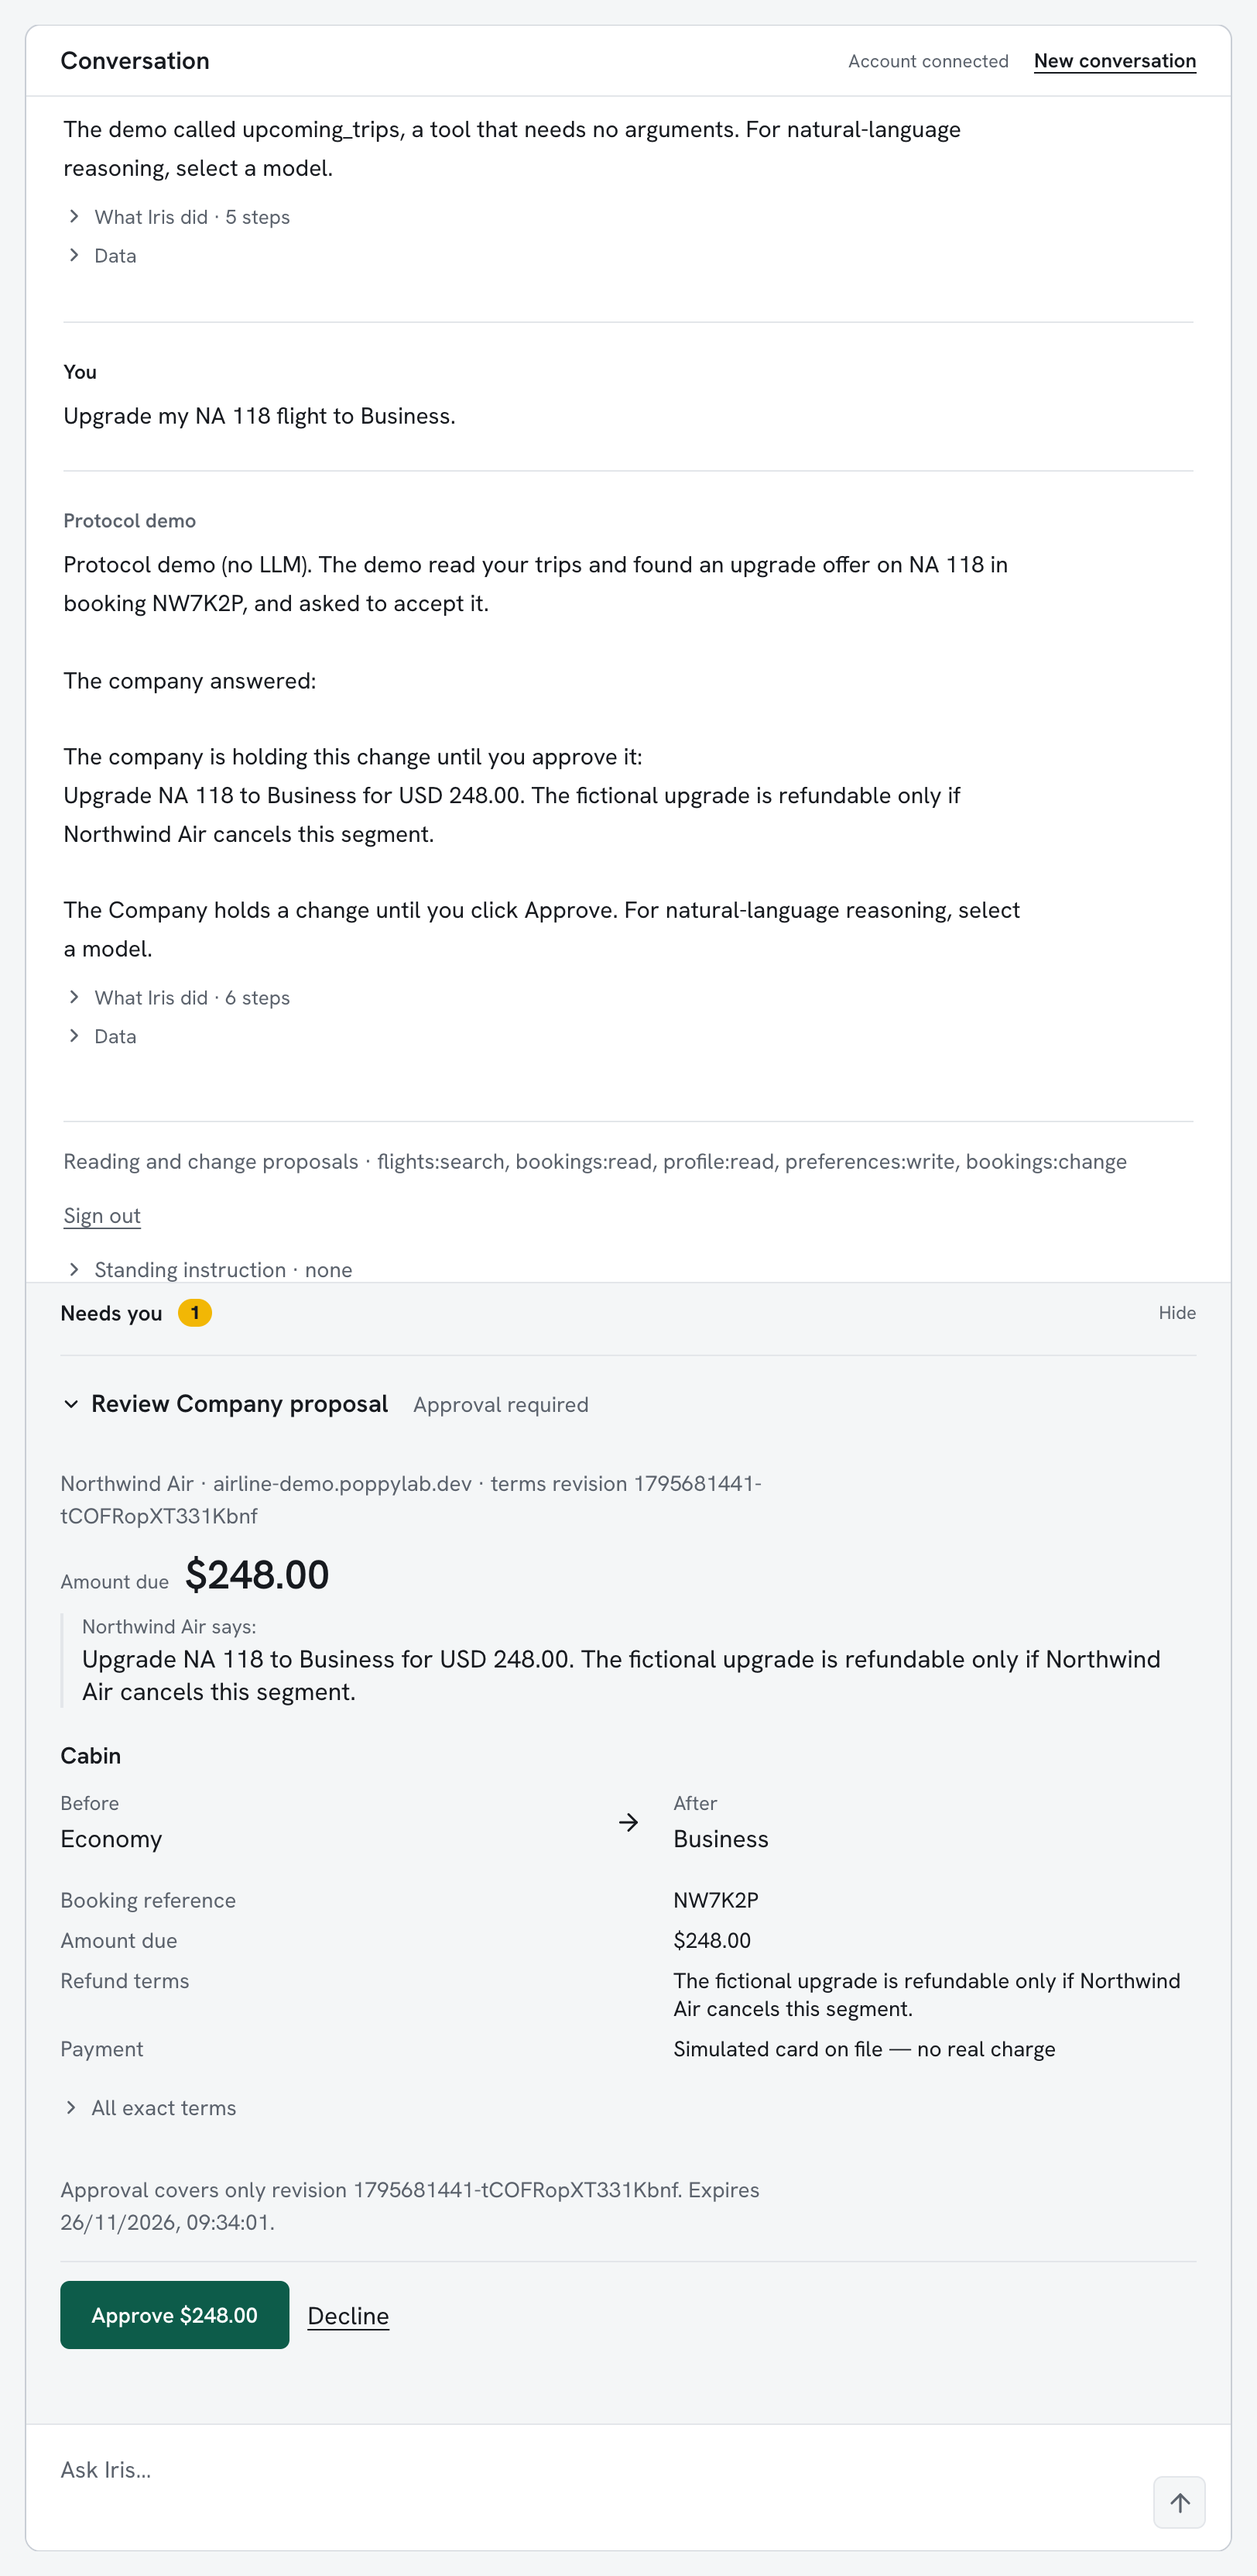
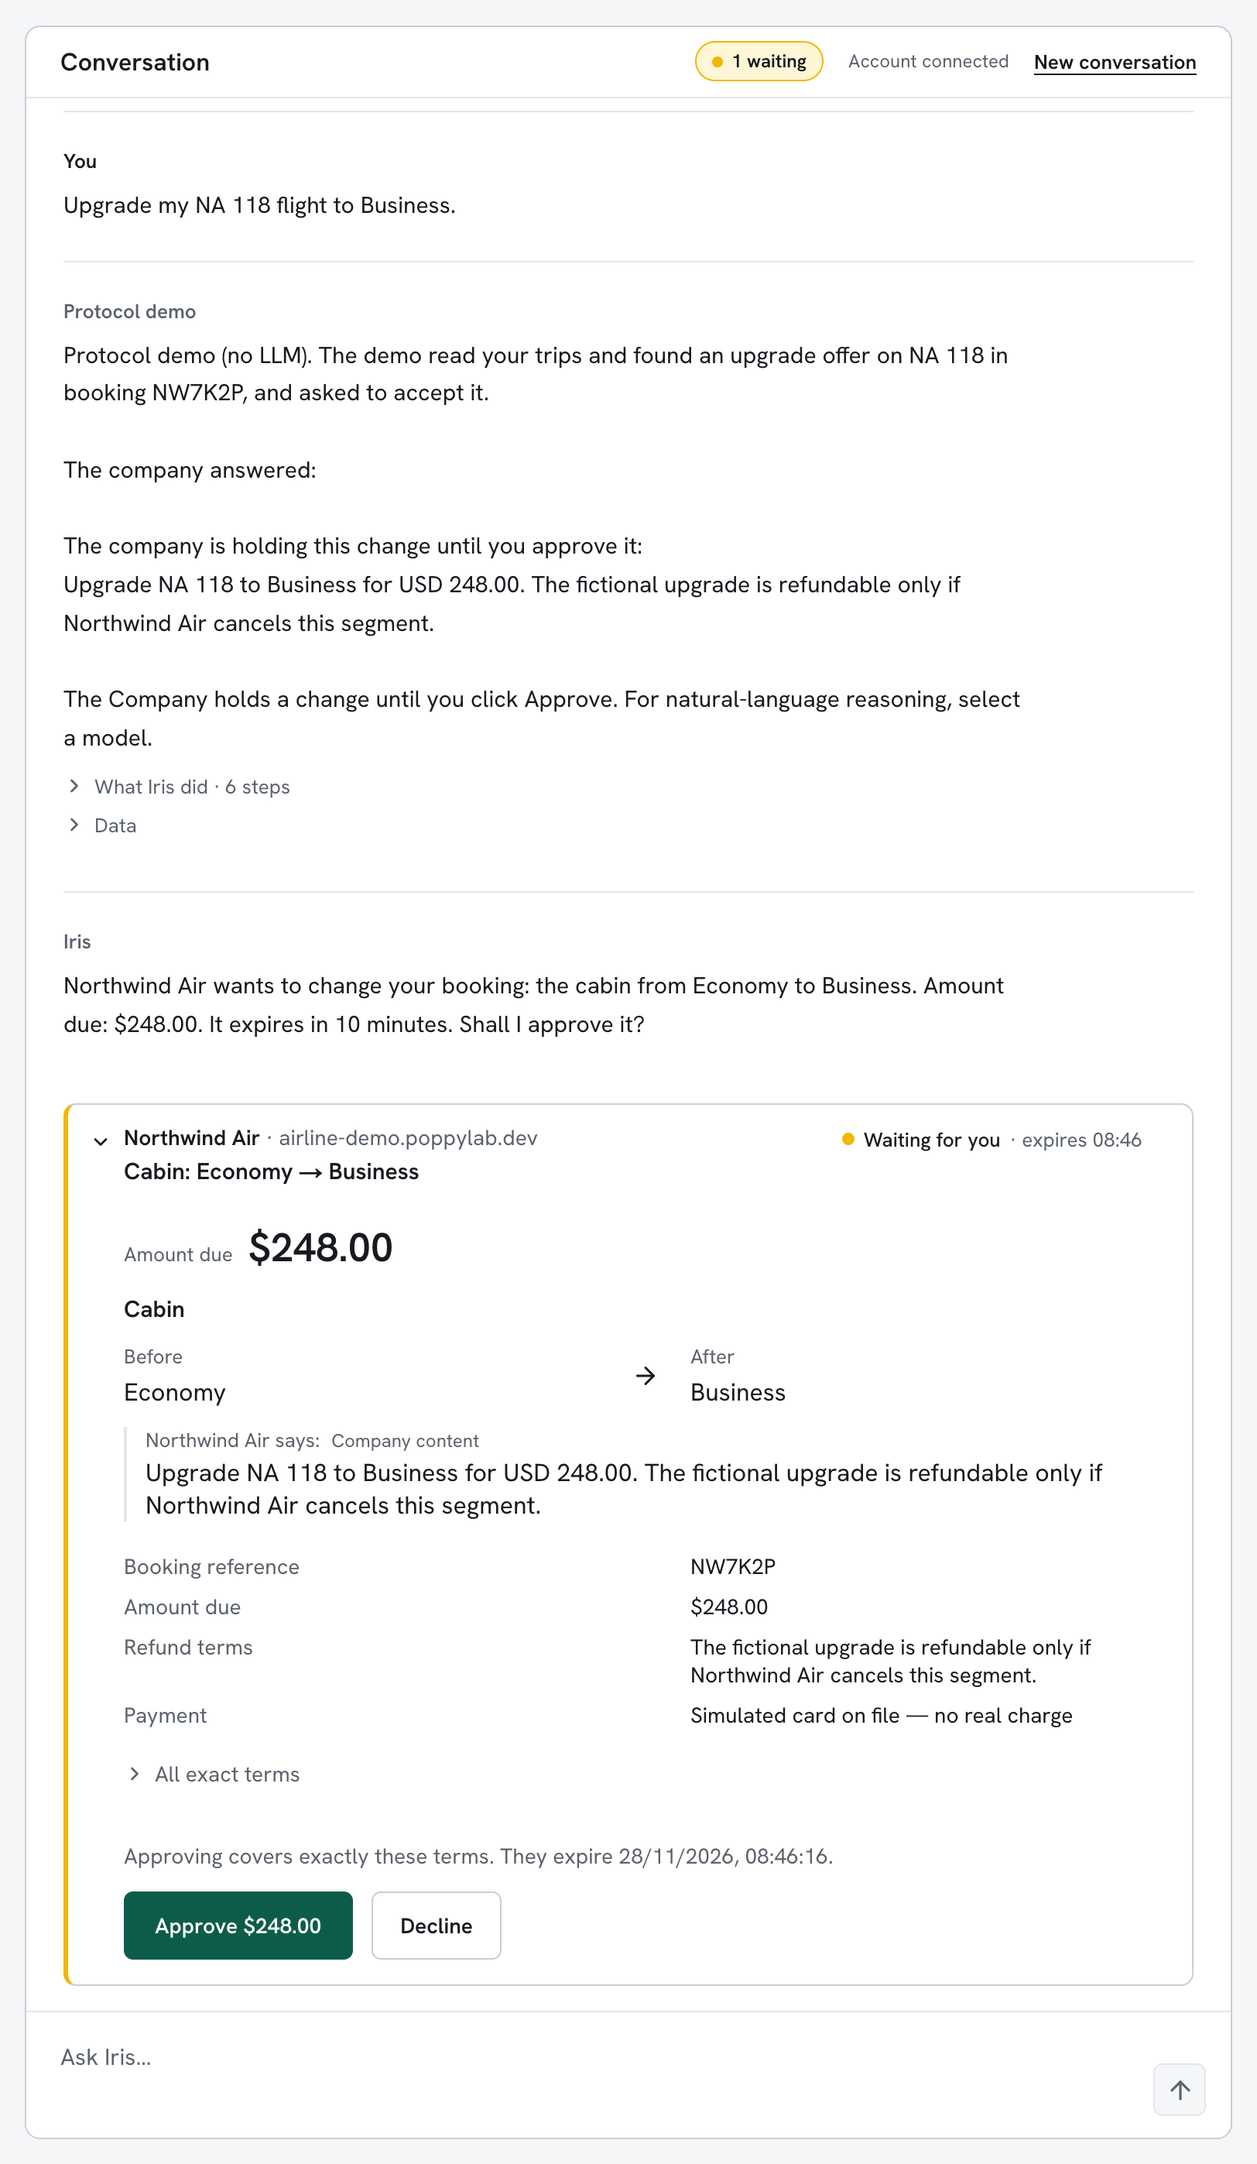
Show the proposal cards and Iris's own voice in Changing a trip
Each proposal is a card where it arrived, Iris's questions and confirmations are quoted as the live lab writes them, and the logs start with the Session. Retaken on 28 November: 03 to 09. The Northwind website images 01, 02, 10 and 11 were not compared.

diff --git a/docs/learn/how-it-works/changing-a-trip.md b/docs/learn/how-it-works/changing-a-trip.md
@@ -8,7 +8,8 @@ Both changes cost money. Northwind sets each price and its conditions, and it
 makes each change after Elena has read the terms and approved them.
 
 This page follows those requests screen by screen, on Iris's side and on
-Northwind's. Every screenshot is from the live lab, taken on 26 November 2026.
+Northwind's. Every screenshot is from the live lab at
+[poppylab.dev](https://poppylab.dev), taken on 26 and 28 November 2026.
 
 ## Who does what
 
@@ -89,8 +90,9 @@ an upgrade offer for 248 dollars, for that flight only, refundable only if
 Northwind cancels the flight.
 
 Iris answered by reading and asked Northwind for nothing else. Elena has
-already allowed change proposals, as the line under the answer says, and her
-question still bought nothing and put nothing in front of her to approve.
+already allowed change proposals, as the block above the answer says, and
+her question still bought nothing and put nothing in front of her to
+approve.
 
 The lab runs here in demo mode, which answers its guided examples without an
 AI model, so the answer is the whole booking set out as plain lines. With a model connected Iris would answer
@@ -101,6 +103,8 @@ in a sentence, from the same data.
 
 ```text
 Started a Poppy Session, signed in
+Read /poppy/tasks
+Company Agent conversations at https://airline-demo.poppylab.dev/poppy/conversations
 Found 15 API tools at the Company
 Read /api/account/bookings
 ```
@@ -123,7 +127,7 @@ The offer, as Northwind sent it inside the booking:
 
 ### 4. Ask for the upgrade
 
-![Elena asks to upgrade flight NA 118. Iris says it asked Northwind to accept the offer, and a panel titled Needs you has appeared](../../../apps/playground/public/learn-media/how-it-works/changing-a-trip/04-iris-asks-for-the-upgrade.webp "Northwind has not upgraded anything. It answered with terms that wait for Elena.")
+![Elena asks to upgrade flight NA 118. The answer says Northwind is holding the change, Iris asks whether to approve it, and a card from Northwind Air below reads Waiting for you, with the amount due of 248 dollars and an Approve button](../../../apps/playground/public/learn-media/how-it-works/changing-a-trip/04-iris-asks-for-the-upgrade.webp "Northwind has not upgraded anything. It answered with terms that wait for Elena.")
 
 Now Elena asks for it: "Upgrade my NA 118 flight to Business." Iris reads the
 booking again, finds Northwind's offer for that flight and asks Northwind to
@@ -131,7 +135,9 @@ accept it.
 
 Northwind does not upgrade her yet. It answers that this change needs the
 customer's approval and sends back the terms it would apply. Iris shows them
-in a panel called Needs you.
+as a card in the conversation, where the proposal arrived, and asks: "Northwind
+Air wants to change your booking: the cabin from Economy to Business. Amount
+due: $248.00. It expires in 10 minutes. Shall I approve it?"
 
 <details>
 <summary>What travelled</summary>
@@ -171,9 +177,9 @@ answer, as Iris received it:
 
 ### 5. Read the price and the conditions
 
-![The approval panel: amount due 248 dollars, Northwind's description of the upgrade, the cabin from Economy to Business, the booking reference, the refund terms, the payment, and a button that reads Approve 248 dollars](../../../apps/playground/public/learn-media/how-it-works/changing-a-trip/05-terms-of-the-upgrade.webp "The price and the conditions come from Northwind. Iris shows them as it received them.")
+![The proposal card: amount due 248 dollars, Northwind's description of the upgrade, the cabin from Economy to Business, the booking reference, the refund terms, the payment, and a button that reads Approve 248 dollars](../../../apps/playground/public/learn-media/how-it-works/changing-a-trip/05-terms-of-the-upgrade.webp "The price and the conditions come from Northwind. Iris shows them as it received them.")
 
-The panel shows what Northwind will do if Elena approves. The amount due
+The card shows what Northwind will do if Elena approves. The amount due
 comes first, 248 dollars, and the button repeats it: "Approve $248.00". The
 sentence that begins "Northwind Air says" is the airline's own description:
 flight NA 118, Business, refundable only if Northwind cancels the flight.
@@ -202,14 +208,16 @@ part of that answer.
 
 ### 6. Approve the upgrade
 
-![The proposal is now a finished entry in the conversation. It reads Completed, with Northwind's confirmation, upgrade accepted for 248 dollars, and the line Approved by you](../../../apps/playground/public/learn-media/how-it-works/changing-a-trip/06-upgrade-approved.webp "Northwind upgraded the flight when the approval arrived, and said so.")
+![The card now reads Approved by you, with Northwind's confirmation, upgrade accepted for 248 dollars. Below it Elena's answer yes, and Iris: Done. You approved the 248 dollar change at Northwind Air, and Northwind Air has carried it out](../../../apps/playground/public/learn-media/how-it-works/changing-a-trip/06-upgrade-approved.webp "Northwind upgraded the flight when the approval arrived, and said so.")
 
-Elena presses the Approve button. Answering "yes" to Iris's question, which
-names the upgrade and its 248 dollars, would do the same. Iris sends Northwind
+Elena answers "yes" to Iris's question, which names the upgrade and its 248
+dollars. Pressing the Approve button would do the same. Iris sends Northwind
 the same request again, this time with her approval attached. Northwind checks that the
 approval matches the terms it offered, upgrades the flight and confirms it:
-upgrade accepted for 248 dollars. The proposal stays in the conversation as a
-finished entry, with that confirmation and the line "Approved by you."
+upgrade accepted for 248 dollars. The card stays where the proposal arrived,
+with that confirmation and the line "Approved by you", and Iris says: "Done.
+You approved the $248.00 change at Northwind Air, and Northwind Air has
+carried it out."
 
 The lab charges nothing. The terms say so themselves, in the line "Simulated
 card on file".
@@ -241,6 +249,9 @@ question.
 <summary>What travelled</summary>
 
 ```text
+Started a Poppy Session, signed in
+Company Agent conversations at https://airline-demo.poppylab.dev/poppy/conversations
+Found 15 API tools at the Company
 Read /api/account/bookings
 ```
 
@@ -257,15 +268,17 @@ Northwind as a request for a change.
 
 ### 8. Name the flight
 
-![Elena writes: add a bag to NA 402. Below the answer, the finished upgrade is listed as Completed and a new proposal waits: one checked bag on NA 402 for 45 dollars](../../../apps/playground/public/learn-media/how-it-works/changing-a-trip/08-bag-on-na-402.webp "A second proposal with its own terms. The upgrade above it is already completed.")
+![Elena writes: add a bag to NA 402. The answer says Northwind is holding the change, Iris asks whether to approve the 45 dollars due, and a new card from Northwind Air waits: one checked bag on NA 402 for 45 dollars](../../../apps/playground/public/learn-media/how-it-works/changing-a-trip/08-bag-on-na-402.webp "A second proposal with its own terms and its own card.")
 
 Elena answers: "Add a bag to NA 402." Iris asks Northwind for one more checked
 bag on that flight, and Northwind answers with new terms: 45 dollars,
 refundable until 24 hours before departure.
 
 This is a second proposal, separate from the first, with its own amount due
-and its own Approve button. The upgrade Elena approved is listed above it as
-Completed, and that approval does not extend to the bag. Each paid change
+and its own Approve button, and Iris asks again: "Northwind Air wants to
+change your booking. Amount due: $45.00. It expires in 10 minutes. Shall I
+approve it?" The upgrade's card, higher in the conversation, reads Approved
+by you, and that approval does not extend to the bag. Each paid change
 waits for an approval of its own.
 
 <details>
@@ -306,12 +319,12 @@ Iris sent the flight and the number of bags. Northwind's answer:
 
 ### 9. Approve the bag
 
-![Two proposals in the conversation, both Completed: the upgrade for 248 dollars and the checked bag for 45 dollars, each with Northwind's confirmation](../../../apps/playground/public/learn-media/how-it-works/changing-a-trip/09-two-approvals.webp "Each change has its own approval and its own confirmation from Northwind.")
+![The bag's card now reads Approved by you, with Northwind's confirmation that it added one checked bag for 45 dollars, and Iris says it has been carried out](../../../apps/playground/public/learn-media/how-it-works/changing-a-trip/09-two-approvals.webp "Each change has its own approval and its own confirmation from Northwind.")
 
-Elena approves, and Northwind confirms that it added one checked bag for 45
-dollars. The conversation now holds two finished proposals. Each one shows the
-confirmation Northwind sent and the line "Approved by you", and opens to the
-terms Northwind set.
+Elena answers "yes", and Northwind confirms that it added one checked bag for
+45 dollars. The conversation now holds two approved cards, each where its
+proposal arrived. Each one shows the confirmation Northwind sent and the line
+"Approved by you", and opens to the terms Northwind set.
 
 While the bag was waiting for her decision, Northwind's website listed it as
 awaiting approval, said until when it would wait, and still showed one bag on
